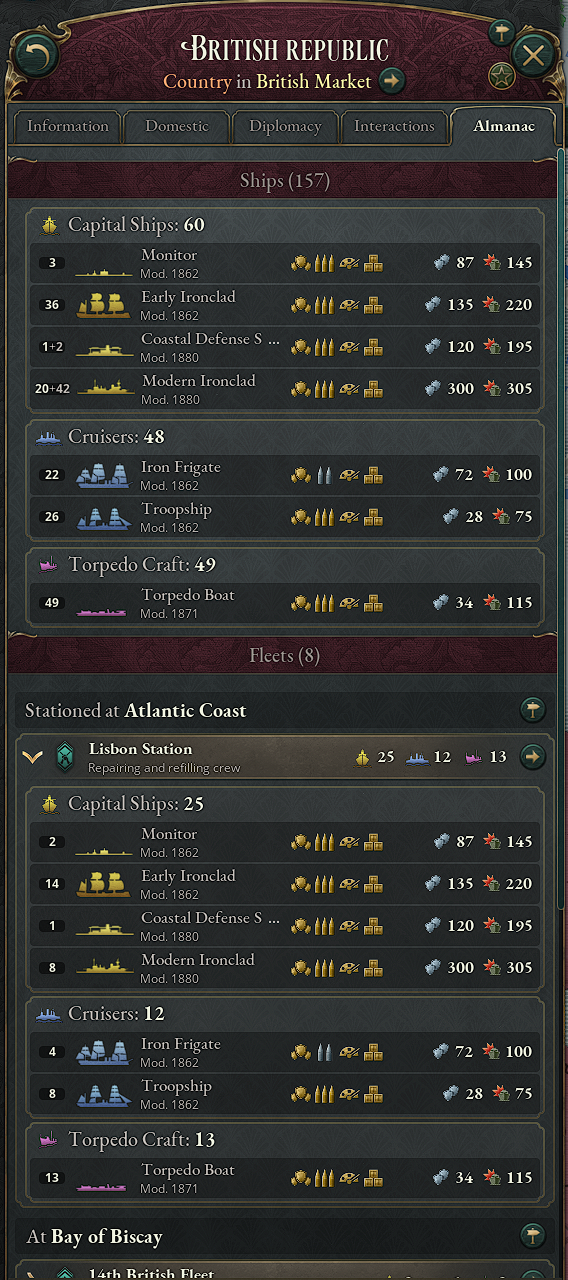
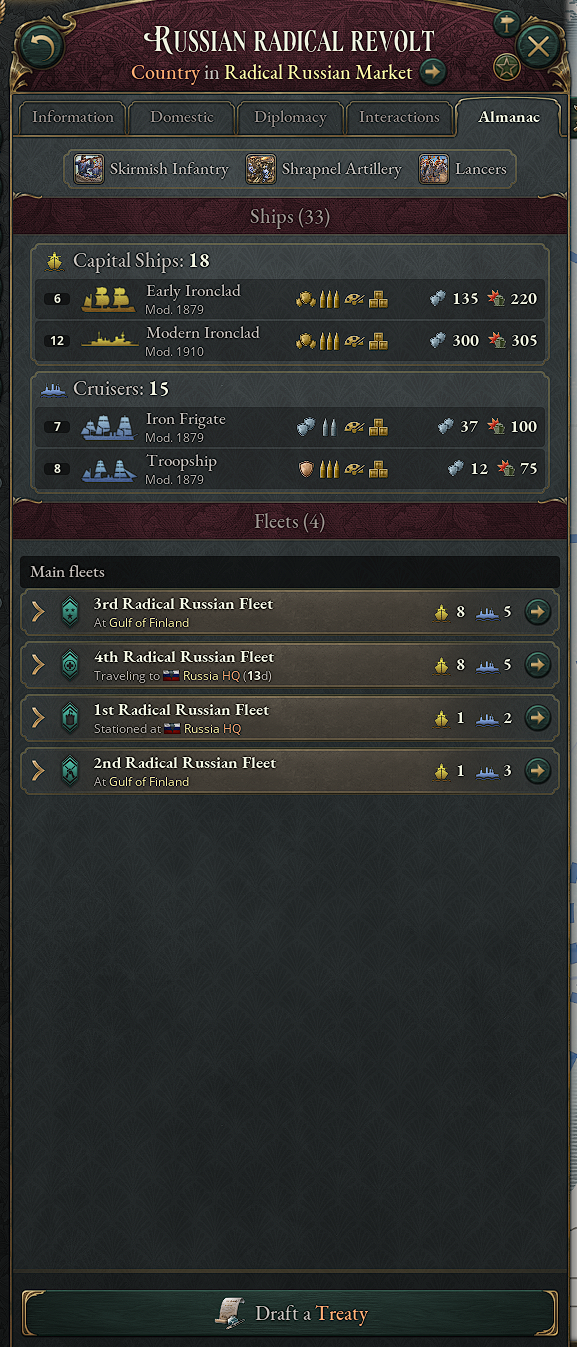
Update screenshots to the current Almanac layout
- New overview and expanded fleet screenshots (unit type line, flat
  fleet list with main fleets)
- Remove outdated screenshots of the old layout; keep the vanilla one
- README screenshot table points to the new images

diff --git a/README.md b/README.md
@@ -14,9 +14,9 @@ The mod is purely cosmetic: no scripted effects, nothing is written to the save 
 
 ## Screenshots
 
-| Ships and an expanded fleet | Outdated ships of a template |
+| Overview | Expanded fleet |
 |---|---|
-| ![Almanac tab with the ship template list and an expanded fleet](docs/almanac_overview.png) | ![Tooltip listing outdated ships with their current equipment](docs/almanac_outdated_ships.png) |
+| ![Almanac tab with unit types, the ship template list and the fleet list](docs/almanac_overview.png) | ![Almanac tab with a fleet expanded to its ship templates](docs/almanac_fleet_expanded.png) |
 
 ## Structure
 
